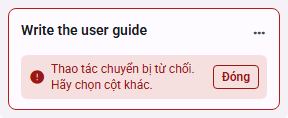
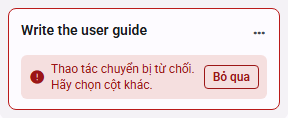
fix(kanban): the dismiss button reads "Bỏ qua" / "忽略" as in sd-calendar and sd-scheduler
RX #3 (SC-11): core.component.kanban.dismiss was "Đóng" in vi and "关闭" in zh; en, ja and ko
already matched the calendar.

Changed region(s): [[0.6875, 0.5339, 0.875, 0.7627]]

diff --git a/versions/v19/projects/sdcorejs-angular/i18n/src/vi.ts b/versions/v19/projects/sdcorejs-angular/i18n/src/vi.ts
@@ -1394,7 +1394,7 @@ export const VI_MESSAGES: Record<keyof typeof EN_MESSAGES, string> = {
   'core.component.kanban.error': 'Không thể chuyển thẻ. Vui lòng thử lại.',
   'core.component.kanban.invalid-data':
     'Kiểm tra thẻ và cột: ID phải duy nhất, không rỗng; thẻ nào cũng cần tên và thuộc một cột có trong danh sách.',
-  'core.component.kanban.dismiss': 'Đóng',
+  'core.component.kanban.dismiss': 'Bỏ qua',
   'core.component.kanban.instructions': 'Enter để chọn. Alt + mũi tên trái, phải để chuyển cột; Alt + mũi tên lên, xuống để đổi vị trí.',
   'core.component.kanban.instructions-column': 'Enter để chọn. Alt + mũi tên trái, phải để chuyển cột.',
   'core.component.kanban.selected': 'Đã chọn {title}',

diff --git a/versions/v19/projects/sdcorejs-angular/i18n/src/zh.ts b/versions/v19/projects/sdcorejs-angular/i18n/src/zh.ts
@@ -1377,7 +1377,7 @@ export const ZH_MESSAGES: Record<keyof typeof EN_MESSAGES, string> = {
   'core.component.kanban.rejected': '移动被拒绝。请选择其他列。',
   'core.component.kanban.error': '无法移动卡片。请重试。',
   'core.component.kanban.invalid-data': '请检查卡片和列：ID 必须唯一且不能为空，每张卡片都需要标题和已有的列。',
-  'core.component.kanban.dismiss': '关闭',
+  'core.component.kanban.dismiss': '忽略',
   'core.component.kanban.instructions': '按 Enter 选择。按 Alt + 左右方向键切换列，按 Alt + 上下方向键调整位置。',
   'core.component.kanban.instructions-column': '按 Enter 选择。按 Alt + 左右方向键切换列。',
   'core.component.kanban.selected': '已选择 {title}',
